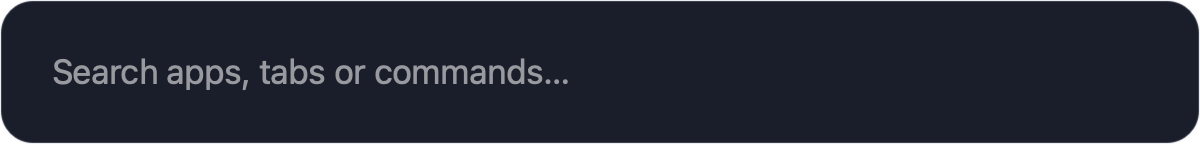
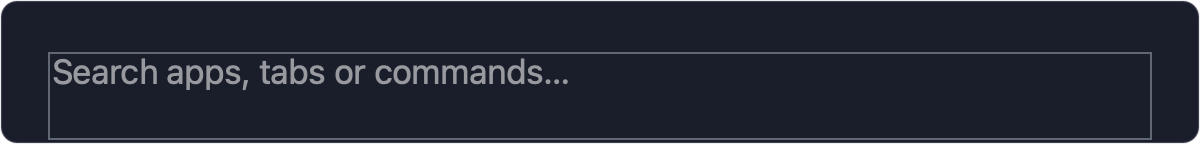
Refine compact launcher card corners (#966)

diff --git a/rust-native/src/presentation.rs b/rust-native/src/presentation.rs
@@ -1,7 +1,7 @@
 //! User-facing labels shared by the native launcher and its action surfaces.
 use rustcast_core::Command;
 
-pub const LAUNCHER_CARD_CORNER_RADIUS: f64 = 14.;
+pub const LAUNCHER_CARD_CORNER_RADIUS: f64 = 8.;
 pub const LAUNCHER_SEARCH_OUTLINE_ALPHA: f64 = 0.48;
 
 pub fn launcher_search_outline(width: f64, height: f64) -> [f64; 4] {
@@ -317,7 +317,7 @@ mod icon_tests {
 
     #[test]
     fn empty_launcher_uses_a_compact_search_bar_and_expands_for_results() {
-        assert_eq!(LAUNCHER_CARD_CORNER_RADIUS, 14.);
+        assert_eq!(LAUNCHER_CARD_CORNER_RADIUS, 8.);
         assert_eq!(LAUNCHER_SEARCH_OUTLINE_ALPHA, 0.48);
         assert_eq!(launcher_search_outline(600., 72.), [24.5, 2.5, 551., 43.]);
         assert_eq!(launcher_search_outline(760., 490.), [24.5, 420.5, 711., 43.]);
